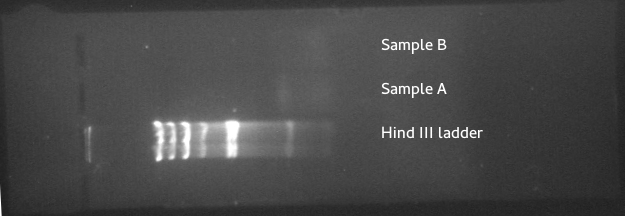
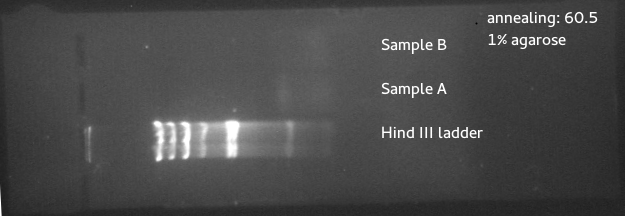
add picture of 2% gel to test results of gel cleanup

Changed region(s): [[0.76, 0.0556, 0.9728, 0.1111], [0.76, 0.1667, 0.912, 0.2222]]

diff --git a/_posts/2014-10-16-mash1-purification.md b/_posts/2014-10-16-mash1-purification.md
@@ -21,16 +21,22 @@ Run a gel (.75% agarose & TAE) & cut out the bands on a UV screen.
 
 ####purify
 
-Run a gel purification using the [QIAquick Gel Extraction Kit](http://www.qiagen.com/us/products/catalog/sample-technologies/dna-sample-technologies/dna-cleanup/qiaquick-gel-extraction-kit)
+Run a gel purification using the [QIAquick Gel Extraction Kit](http://www.qiagen.com/us/products/catalog/sample-technologies/dna-sample-technologies/dna-cleanup/qiaquick-gel-extracltion-kit); elute with elution buffer in kit
+
+##results
 
 ####gel
 
  * ending with 60 uls DNA in each tube (A + B)
  * running 10 uls of each on a gel to see which sample is Mash1 and which is primer dimer
-![empty gel]( {{site.url}}/Data/10-16-14_gel-purification-60pt5annealing.png)
+
+![First gel in 1% agarose]({{site.url}}/Data/10-16-14_gel-purification-60pt5annealing.png)
+
+![2% agarose gel showing a better signal in the second lane]({{site.url}}/Data/10-17-14_gel-purification-60.5annealingv2.png)
 
 
 
-##results &/or notes
+
+
 
 
